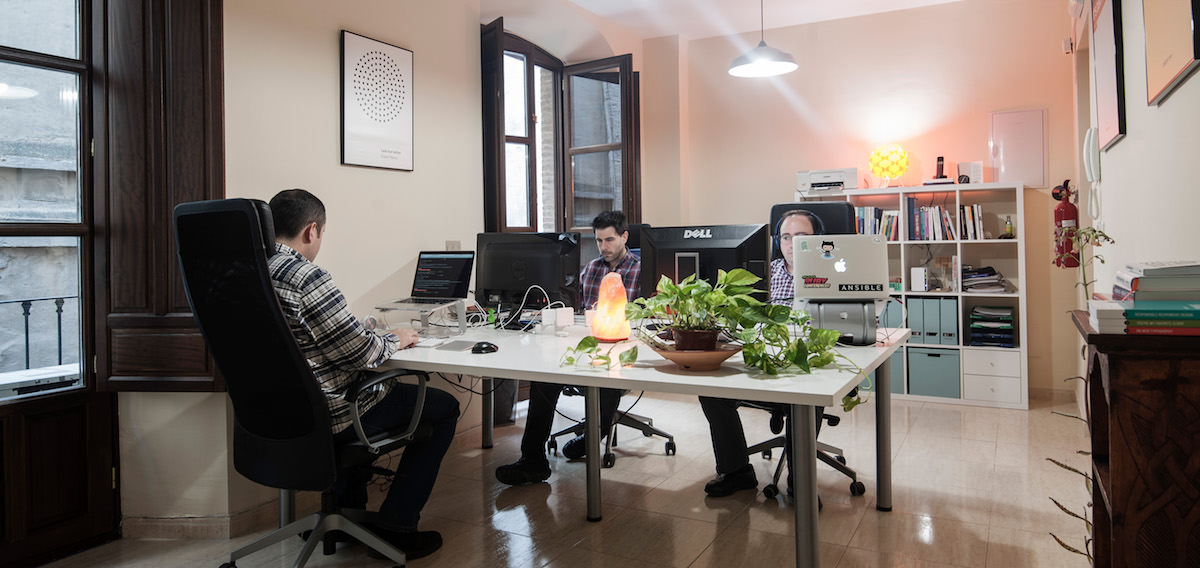
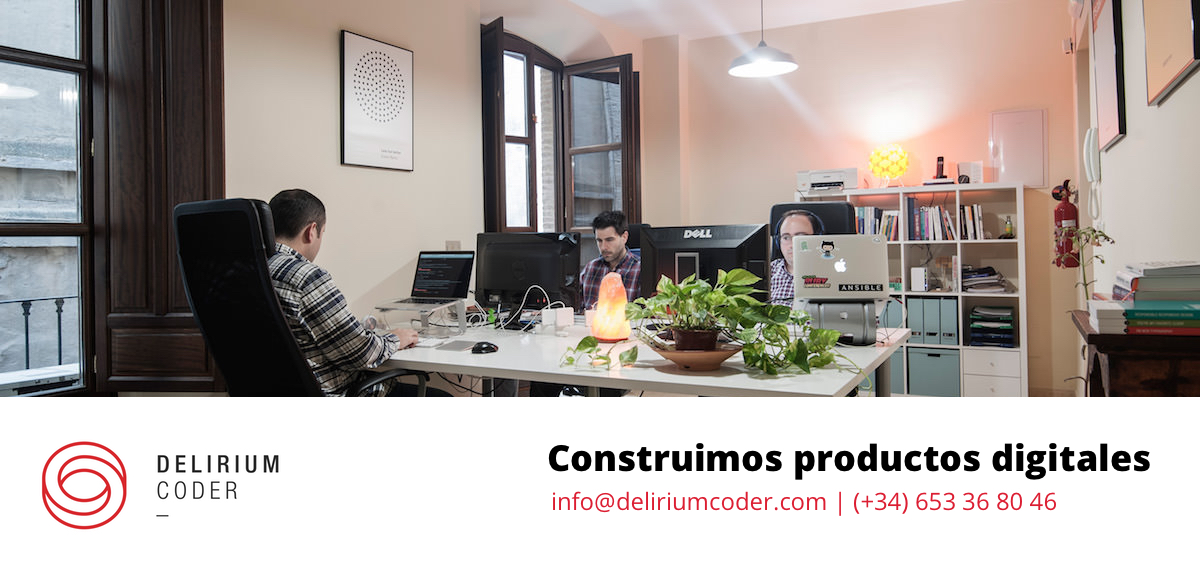
Adds a specific image for social media cards.

Changed region(s): [[0.0, 0.6884, 1.0, 1.0]]

diff --git a/contact.html b/contact.html
@@ -40,7 +40,7 @@
     </div>
     <div class="section__inner">
       <div class="section-workspace__ofi">
-        <img src="/images/ofi-rrss.jpg" alt="Espacio de trabajo del equipo de Delirium Coder" />
+        <img src="/images/ofi.jpg" alt="Espacio de trabajo del equipo de Delirium Coder" />
         <img src="/images/team.jpg" alt="Jesús, José y Víctor">
       </div>
       <div class="section-workspace__gallery">
